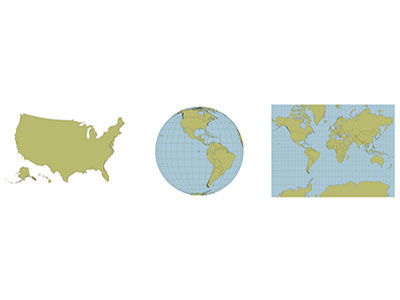
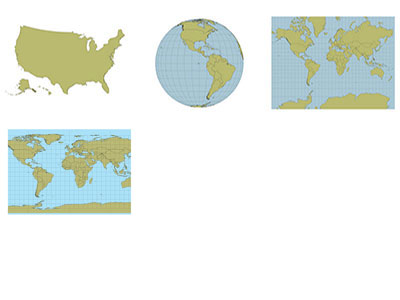
map projection clean up

diff --git a/samples/scripts/map_projections/albers_usa.js b/samples/scripts/map_projections/albers_usa.js
@@ -1,3 +1,28 @@
+var container_parent = $('.display') ,
+    chart_container = $('#map'),
+    margins = {top: 0, right: 20, bottom: 20, left: 20},
+    width = container_parent.width(),
+    height = (width * .6),
+    vis, vis_group, aspect
+
+var defaults = {
+    colors: {
+        none: 'none',
+        land: '#baba71',
+        water: '#a8e1f8',
+        stroke: '#333',
+        strokeWidth: .5,
+        strokeOpacity: .5
+    }
+}
+
+var projection = d3.geo.albersUsa()
+    .scale(width)
+    .translate([ width/2, height/2 ]);
+
+var path = d3.geo.path()
+    .projection(projection);
+
 vis = d3.select('#map').append('svg')
     .attr({
         'width': width + margins.left + margins.right,
@@ -15,9 +40,9 @@ d3.json('../data/us.json', function(error, topology){
         .datum(topojson.feature(topology, topology.objects.land))
         .attr({
             'd': path,
-            'fill': defaults.land.fill,
-            'stroke': defaults.land.stroke,
-            'stroke-width': defaults.land.strokeWidth
+            'fill': defaults.colors.land,
+            'stroke': defaults.colors.stroke,
+            'stroke-width': defaults.colors.strokeWidth
         })
 
     // draws the state outlines
@@ -28,18 +53,19 @@ d3.json('../data/us.json', function(error, topology){
         .attr({
             'd': path,
             'fill': 'none',
-            'stroke': defaults.states.stroke,
+            'stroke': defaults.colors.stroke,
+            'stroke-width': defaults.colors.strokeWidth
         })
 
     // draws the county borders
-    vis_group.append('path')
-        .datum(topojson.mesh(topology, topology.objects.counties, function(a, b){
-            return a !== b && !(a.id / 1000 ^ b.id / 1000)
-        }))
-        .attr({
-            'd': path,
-            'fill': 'none',
-            'stroke': defaults.counties.stroke,
-            'stroke-width': defaults.counties.strokeWidth
-        })
+    // vis_group.append('path')
+    //     .datum(topojson.mesh(topology, topology.objects.counties, function(a, b){
+    //         return a !== b && !(a.id / 1000 ^ b.id / 1000)
+    //     }))
+    //     .attr({
+    //         'd': path,
+    //         'fill': 'none',
+    //         'stroke': defaults.colors.none,
+    //         'stroke-width': defaults.colors.strokeWidth
+    //     })
 })

diff --git a/samples/scripts/map_projections/equirectangular.js b/samples/scripts/map_projections/equirectangular.js
@@ -1,6 +1,6 @@
 var container_parent = $('.display') ,
     chart_container = $('#map'),
-    margins = {top: 20, right: 20, bottom: 20, left: 20},
+    margins = {top: 0, right: 0, bottom: 0, left: 0},
     width = container_parent.width() - margins.left - margins.right,
     height = (width * 0.5) - margins.top - margins.bottom,
     vis, vis_group, aspect
@@ -8,7 +8,7 @@ var container_parent = $('.display') ,
 var defaults = {
     colors: {
         none: 'none',
-        land: '#a7cb7c',
+        land: '#baba71',
         water: '#a8e1f8',
         stroke: '#333',
         strokeWidth: .5,
@@ -41,19 +41,16 @@ aspect = chart_container.width() / chart_container.height()
 d3.json('../data/world-50m.json', function(error, topology){
     vis_group.append('rect')
         .attr({
-            'width': width + margins.left + margins.right,
-            'height': height + margins.top + margins.bottom,
+            'width': width - margins.left - margins.right,
+            'height': height,
             'fill': defaults.colors.water
         })
 
     vis_group.append('path')
         .datum(topojson.feature(topology, topology.objects.land))
         .attr({
-            // 'class': 'land',
             'd': path,
-            'fill': '#baba71',
-            'stoke': 'white',
-            'stroke-width': 2,
+            'fill': defaults.colors.land
         })
 
     vis_group.append('path')

diff --git a/samples/maps/projections.html b/samples/maps/projections.html
@@ -83,7 +83,7 @@
                     <div class="col-md-4">
                         <div class="tile">
                             <div class="art">
-                                <a href="projections_equirectangular.html"><img src="../images/placeholder.jpg" /></a>
+                                <a href="projections_equirectangular.html"><img src="../images/projections_equirectangular.jpg" /></a>
                             </div>
                             <div class="cap">
                                 <a href="projections_equirectangular.html">Equirectangular</a>

diff --git a/samples/scripts/map_projections/spherical_mercator.js b/samples/scripts/map_projections/spherical_mercator.js
@@ -1,6 +1,6 @@
 var container_parent = $('.display') ,
 	chart_container = $('#map'),
-	margins = {top: 20, right: 20, bottom: 20, left: 20},
+	margins = {top: 0, right: 0, bottom: 0, left: 0},
 	width = container_parent.width() - margins.left - margins.right,
 	height = (width * .8) - margins.top - margins.bottom,
 	vis, vis_group, aspect
@@ -8,7 +8,7 @@ var container_parent = $('.display') ,
 var defaults = {
     colors: {
         none: 'none',
-        land: '#a7cb7c',
+        land: '#baba71',
         water: '#a8e1f8',
         stroke: '#333',
         strokeWidth: .5,

diff --git a/samples/maps/projections_albers_usa.html b/samples/maps/projections_albers_usa.html
@@ -49,9 +49,7 @@
         <script src="../scripts/lib/jquery-1.10.2.min.js"></script>
         <script src="../scripts/lib/bootstrap/bootstrap.min.js"></script>
         <script src="../scripts/lib/d3.min.js"></script>
-        <script src="../scripts/lib/queue.v1.min.js"></script>
         <script src="../scripts/lib/topojson.js"></script>
-        <script src="../scripts/base.js"></script>
         <script src="../scripts/map_projections/albers_usa.js"></script>
     </body>
 </html>

diff --git a/samples/maps/projections_orthographic.html b/samples/maps/projections_orthographic.html
@@ -48,7 +48,6 @@
         <script src="../scripts/lib/jquery-1.10.2.min.js"></script>
         <script src="../scripts/lib/bootstrap/bootstrap.min.js"></script>
         <script src="../scripts/lib/d3.min.js"></script>
-        <script src="../scripts/lib/queue.v1.min.js"></script>
         <script src="../scripts/lib/topojson.js"></script>
         <script src="../scripts/map_projections/orthographic.js"></script>
     </body>

diff --git a/samples/scripts/map_projections/orthographic.js b/samples/scripts/map_projections/orthographic.js
@@ -10,7 +10,7 @@ var defaults = {
     colors: {
         none: 'none',
         land: '#baba71',
-        water: 'rgba(87,146,174,.5)',
+        water: '#a8e1f8',
         stroke: '#333',
         strokeWidth: .5,
         strokeOpacity: .5
